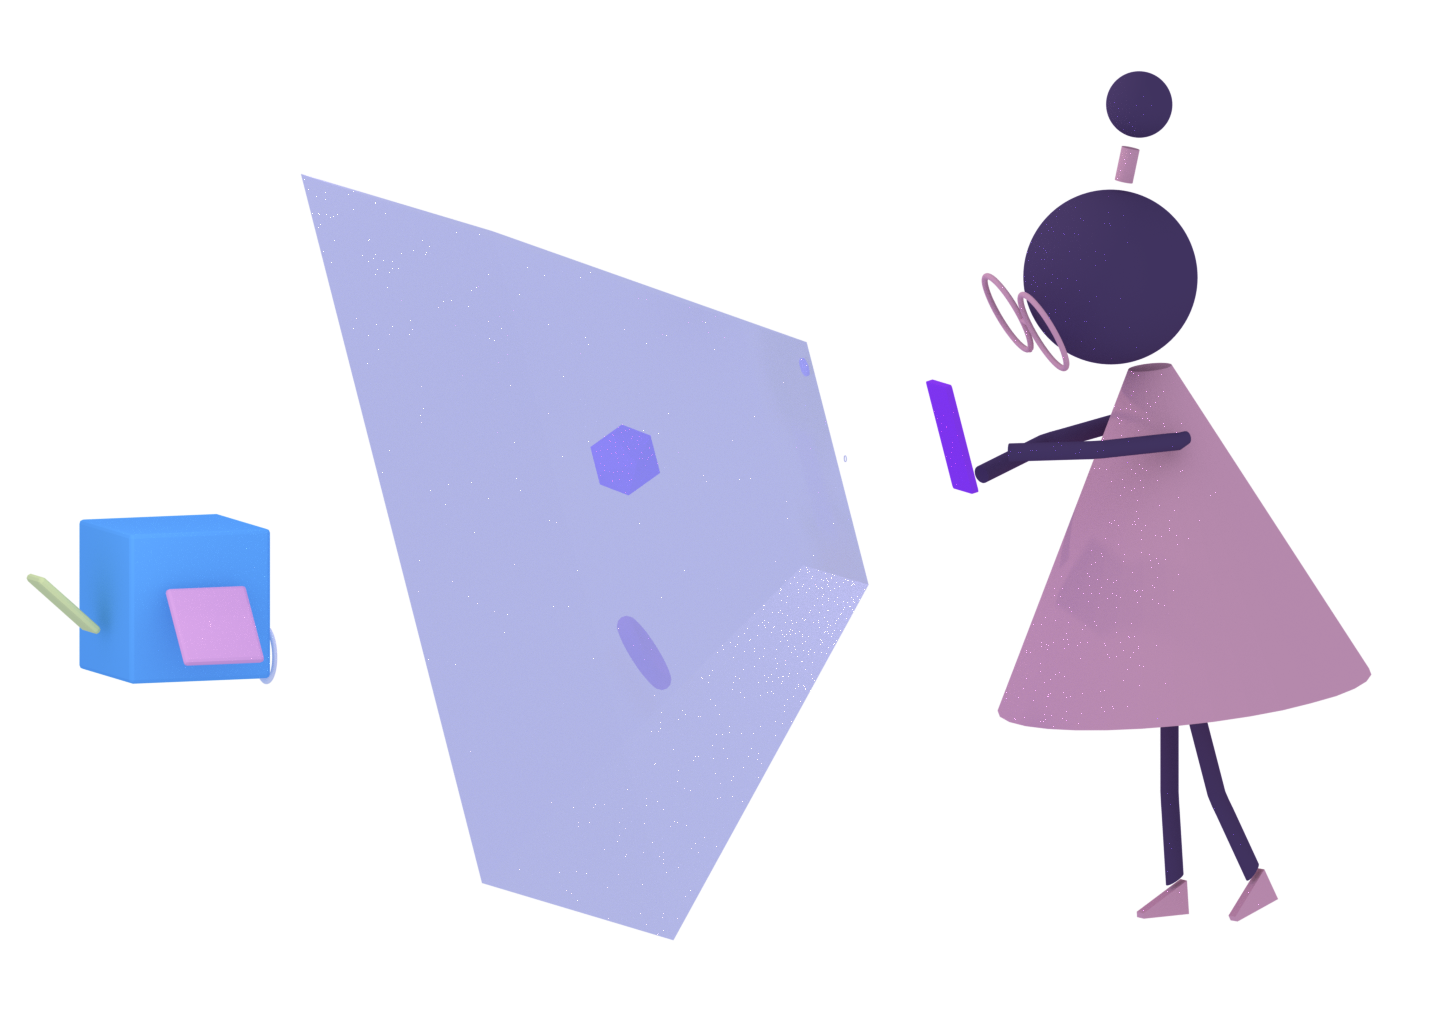
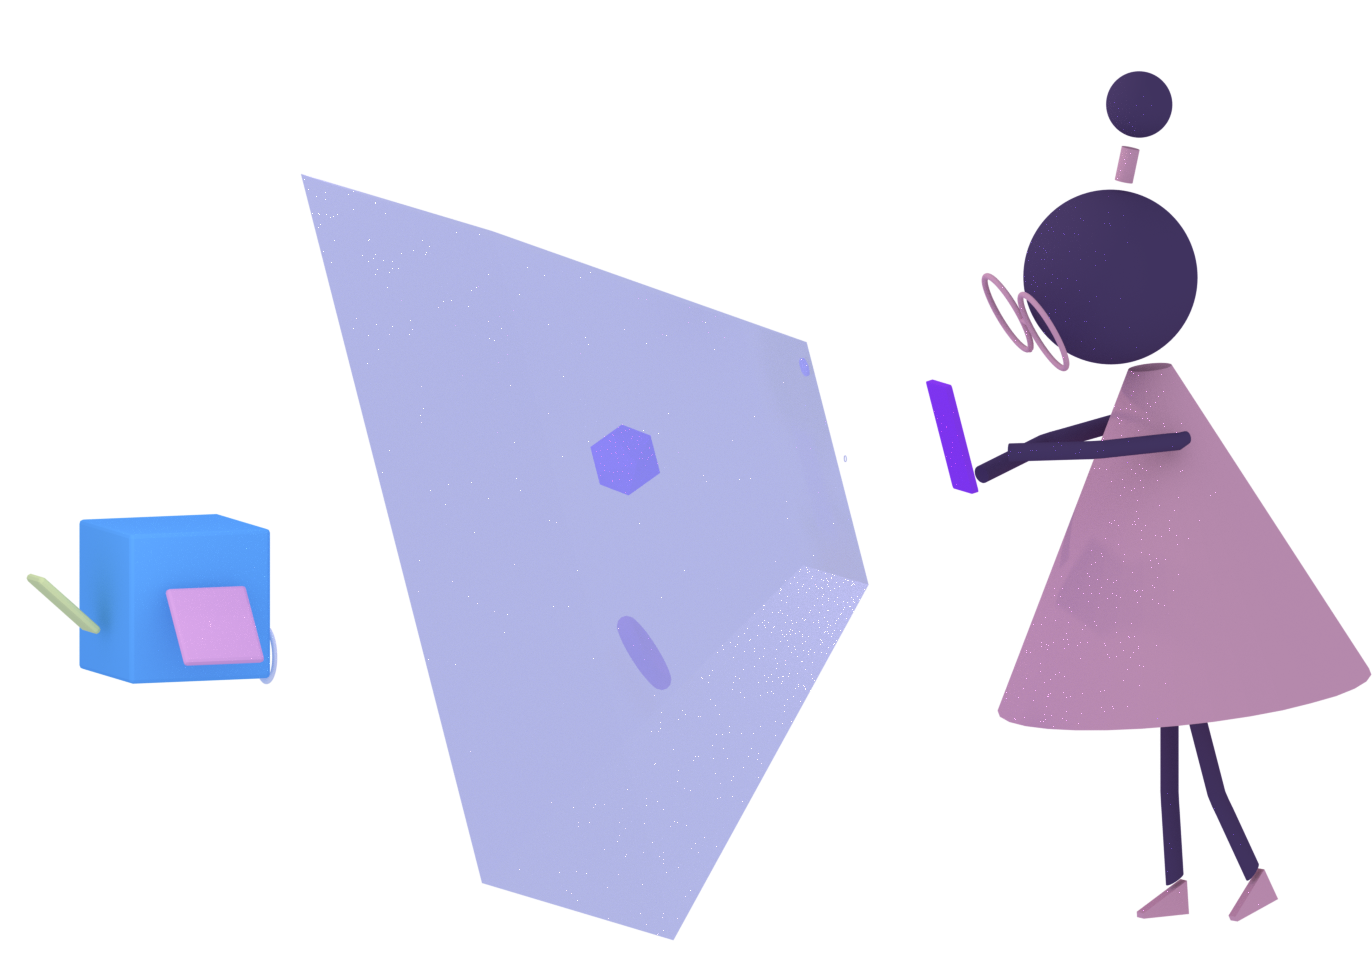
add gifs

diff --git a/index.html b/index.html
@@ -91,7 +91,7 @@
 		</div>
 
 		<div class="main-img-container float-r">
-				<img class="img" src="images/1-whatishar.png">
+				<img class="img" src="images/1-whatishar.gif">
 		</div>
 	</div>
 
